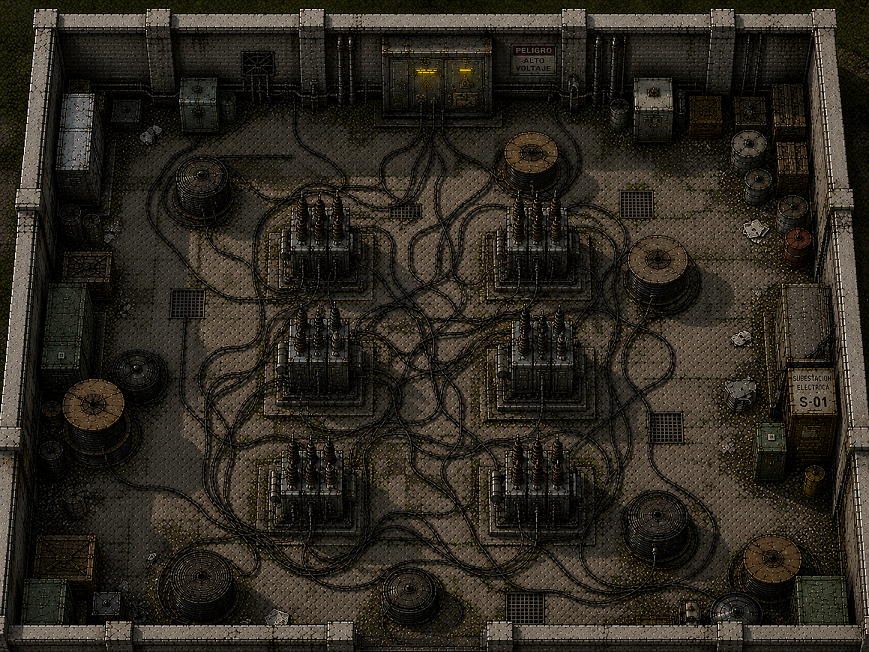
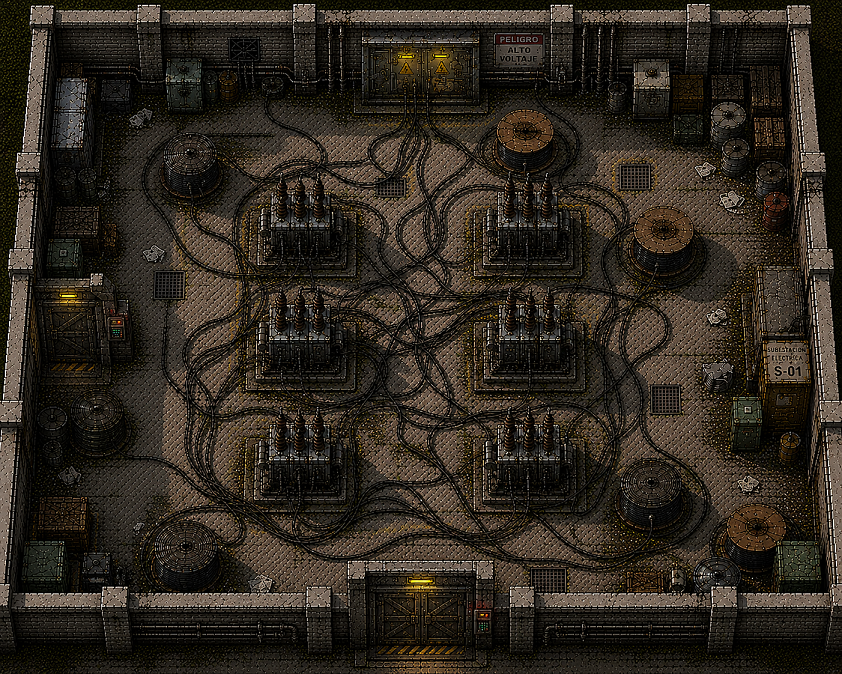
fixes

diff --git a/src/rooms.js b/src/rooms.js
@@ -332,72 +332,57 @@ export const ROOMS = {
       { id: "maintenance_runner_02", type: "runner", x: 620, y: 380, speed: 135, aggroRange: 360, damage: 8, health: 35 },
     ],
   },
-  switch_room: {
-    name: "Sala de paneles",
+  generator_room: {
+    name: "Sala del generador",
     zone: "service",
-    backgroundImage: { key: "bg_paneles", path: "src/background/paneles.png" },
+    backgroundImage: { key: "bg_generador", path: "src/background/generador.png" },
     showWallVisuals: false,
     requiresPower: true,
     walls: [
-      { x: 0, y: 0, w: 800, h: 112 },
+      { x: 0, y: 0, w: 800, h: 82 },
       { x: 0, y: 558, w: 800, h: 42 },
-      { x: 0, y: 0, w: 42, h: 600 },
-      { x: 680, y: 0, w: 42, h: 600 },
-      { x: 320, y: 220, w: 180, h: 150 },
-      { x: 40, y: 340, w: 90, h: 200 },
-      { x: 150, y: 440, w: 90, h: 100 },
-      { x: 550, y: 440, w: 200, h: 100 },
-      { x: 550, y: 100, w: 90, h: 100 },
+      { x: 0, y: 0, w: 102, h: 600 },
+      { x: 758, y: 0, w: 102, h: 600 },
+      { x: 200, y: 422, w: 40, h: 40 },
+      { x: 265, y: 222, w: 200, h: 120 },
+      { x: 520, y: 415, w: 220, h: 130 },
     ],
     doors: [
-      { id: "switch_to_maintenance", x: 18, y: 200, w: 42, h: 88, to: "maintenance_access", spawn: "from_switch", label: "Mantenimiento" },
-      { id: "switch_to_sealed", x: 360, y: 118, w: 80, h: 42, to: "sealed_room", spawn: "from_switch", label: "Sala sellada", objectiveLocked: "switchPuzzleSolved" },
+      { id: "generator_to_locked", x: 340, y: 60, w: 120, h: 42, to: "locked_corridor", spawn: "from_generator", label: "Pasillo" },
+      { id: "generator_to_maintenance", x: 740, y: 230, w: 42, h: 118, to: "maintenance_access", spawn: "from_generator", label: "Mantenimiento", powerLocked: true },
+      
+      // 🔓 MODIFICADO: Ahora esta puerta se destraba automágicamente desde la otra punta del mapa
+      { 
+        id: "generator_to_underground", 
+        x: 330, y: 500, w: 120, h: 42, 
+        to: "underground_entry", 
+        spawn: "from_generator", 
+        label: "Subsuelo", 
+        objectiveLocked: "switchPuzzleSolved" // 👈 Vinculado al puzzle de la switch_room
+      },
     ],
-    enemies: [
-    { id: "service_tank_01", type: "tank", x: 5000, y: 275, speed: 42, aggroRange: 250, damage: 22, health: 150 },    ],
     spawns: {
-      from_maintenance: { x: 92, y: 302, angle: 0 },
-      from_sealed: { x: 400, y: 152, angle: 90 },
+      from_corridor: { x: 400, y: 92, angle: 90 },
+      from_maintenance: { x: 700, y: 302, angle: 180 },
+      from_underground: { x: 400, y: 450, angle: 270 },
     },
     props: [],
-    items: [{ id: "flashlight_01", type: "tool", name: "Linterna", x: 110, y: 400, color: 0xfff1a6, description: "Sirve para moverse por zonas sin electricidad." },],
     interactables: [
       {
-        id: "switch_a",
-        type: "puzzle_switch",
-        switchId: "a",
-        label: "alternar panel A",
-        x: 325,
-        y: 260,
-        w: 10,
-        h: 10,
-        offVisual: { color: 0x8c3d38, alpha: 0.84, strokeColor: 0x35110f },
-        onVisual: { color: 0x65d17a, alpha: 0.9, strokeColor: 0x12381a },
+        id: "generator_switch",
+        type: "generator",
+        label: "activar generador",
+        x: 400, y: 300, w: 140, h: 90,
+        requiresItem: "fuse_01",
+        offVisual: { color: 0xc9a633, alpha: 0.72, strokeColor: 0x332500 },
+        onVisual: { color: 0x7fe28a, alpha: 0.72, strokeColor: 0x17361b },
       },
-      {
-        id: "switch_b",
-        type: "puzzle_switch",
-        switchId: "b",
-        label: "alternar panel B",
-        x: 400,
-        y: 260,
-        w: 10,
-        h: 10,
-        offVisual: { color: 0x8c3d38, alpha: 0.84, strokeColor: 0x35110f },
-        onVisual: { color: 0x65d17a, alpha: 0.9, strokeColor: 0x12381a },
-      },
-      {
-        id: "switch_c",
-        type: "puzzle_switch",
-        switchId: "c",
-        label: "alternar panel C",
-        x: 485,
-        y: 260,
-        w: 10,
-        h: 10,
-        offVisual: { color: 0x8c3d38, alpha: 0.84, strokeColor: 0x35110f },
-        onVisual: { color: 0x65d17a, alpha: 0.9, strokeColor: 0x12381a },
-      },
+    ],
+    items: [
+      { id: "medikit_generator_01", type: "medikit", name: "Medikit", x: 560, y: 125, color: 0x5fd178, heal: 35 },
+    ],
+    enemies: [
+      { id: "generator_zombie_02", type: "zombie", x: 525, y: 330, speed: 58, aggroRange: 240, damage: 12, health: 60 },
     ],
   },
   underground_entry: {
@@ -1045,7 +1030,7 @@ underground_lab6: {
     doors: [
       { id: "escape_to_core", x: 340, y: 40, w: 120, h: 20, label: "Volver al Núcleo", to: "elec_core", spawn: "from_escape" },
       // 🟢 PUERTA DE SALIDA: Mañana hacés que se desbloquee cuando la vida de Mr. X llegue a 0
-      { id: "escape_to_final", x: 740, y: 240, w: 20, h: 120, label: "Puerta de Evacuación", to: "elec_final_escape", spawn: "from_hangar", bossLocked: true, lockedMessage: "La compuerta está sellada por el protocolo de combate." }
+      { id: "escape_to_final", x: 340, y: 500, w: 120, h: 20, label: "Puerta de Evacuación", to: "elec_final_escape", spawn: "from_hangar", bossLocked: true, lockedMessage: "La compuerta está sellada por el protocolo de combate." }
     ],
     spawns: { 
       from_core: { x: 400, y: 100, angle: 90 },
